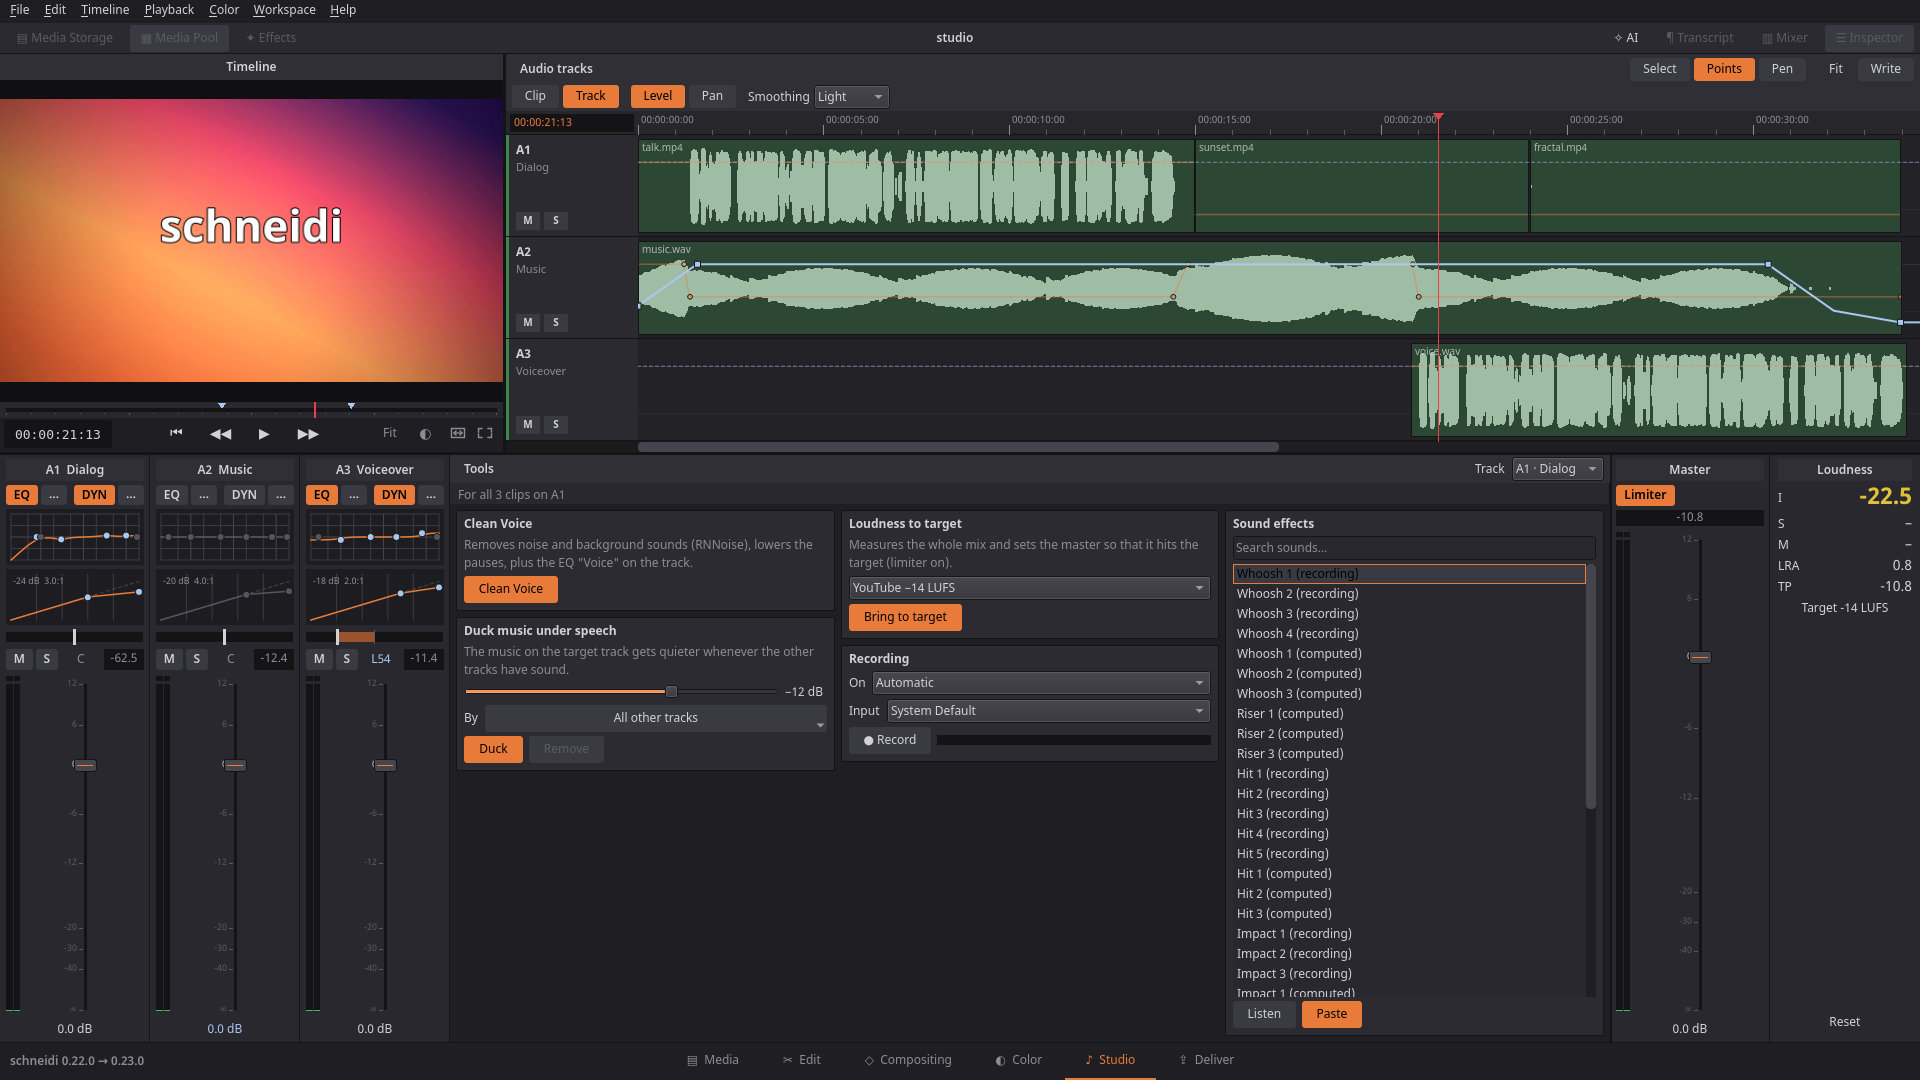
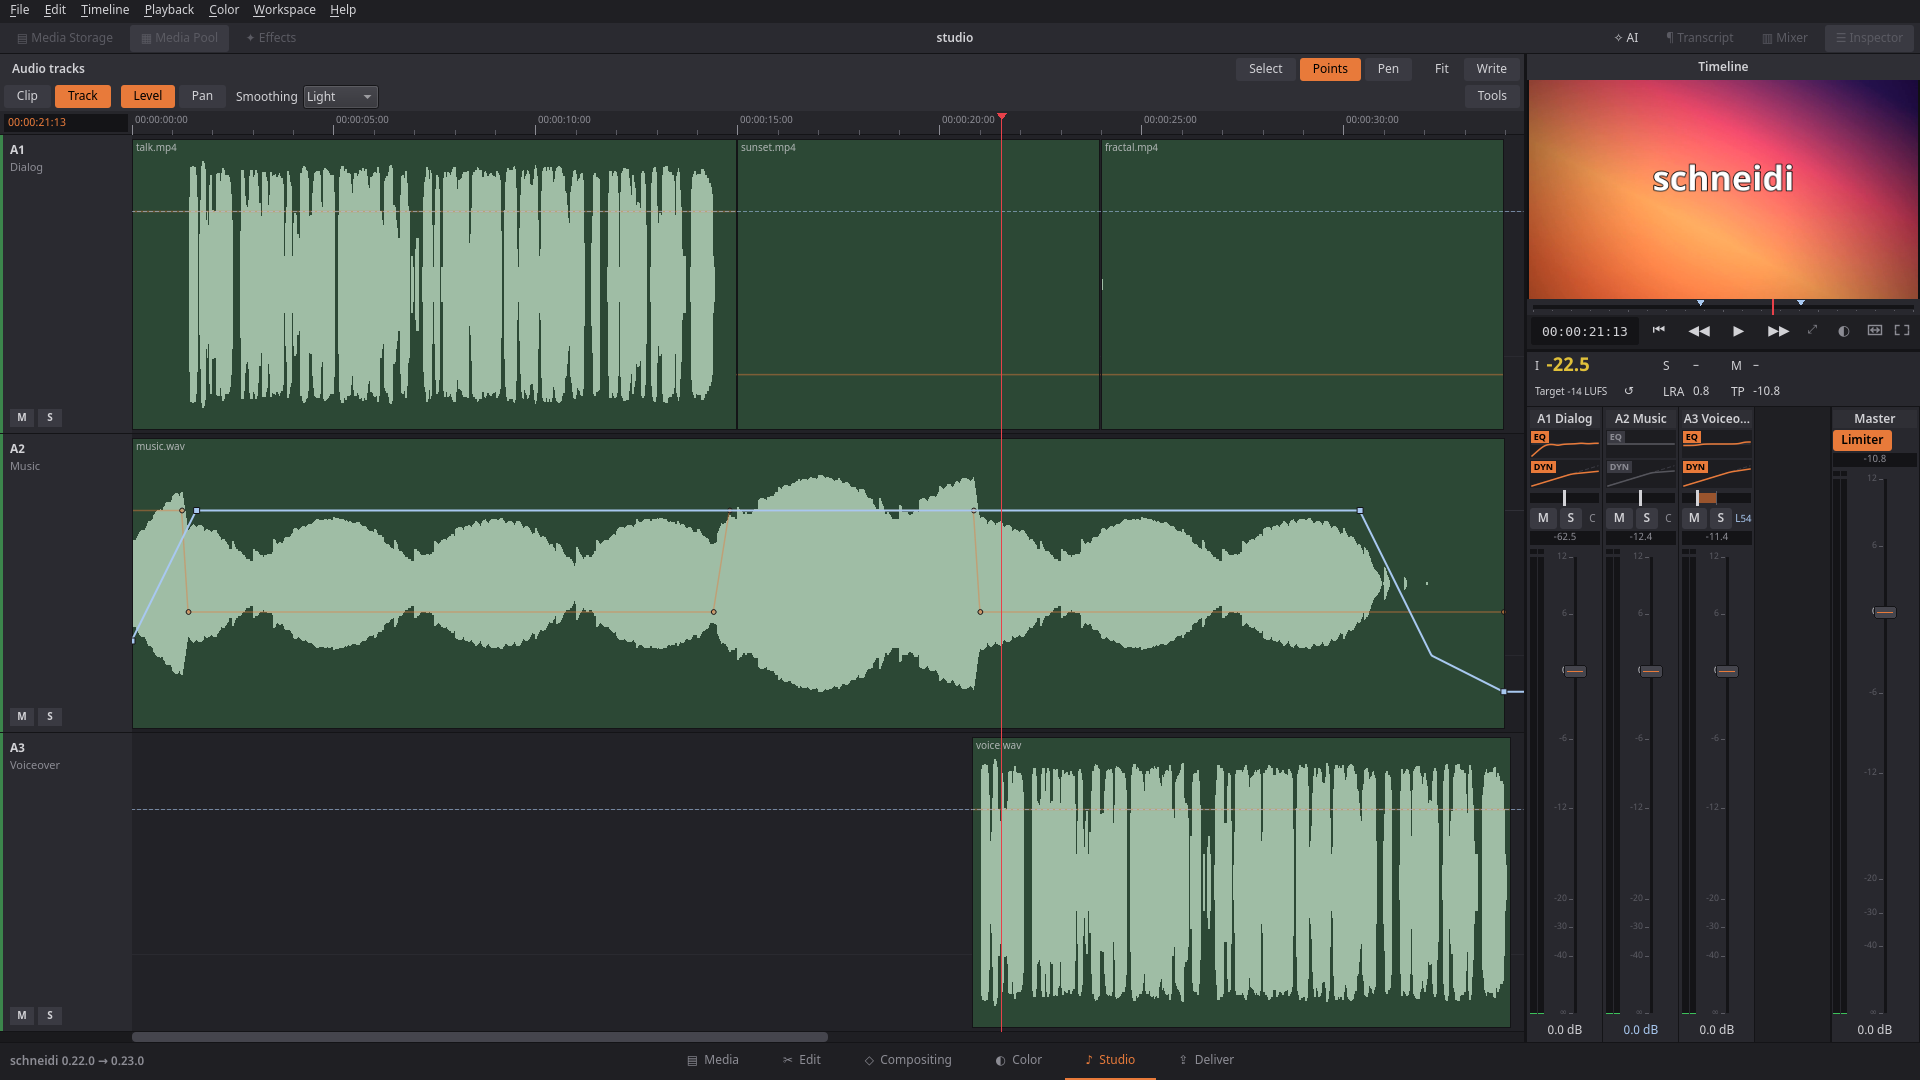
Studio page: README picture of the new layout, tool list left-aligned, compact loudness values
The README image shows the lanes over the whole height, the viewer and
loudness at the top right and the narrow mixer strips (tools closed).
The tool list in the drawer uses push buttons (left-aligned text), the
loudness values sit beside their names, the right column defaults to a
fifth of the page at least.

diff --git a/src/ui/studio/StudioTools.cpp b/src/ui/studio/StudioTools.cpp
@@ -33,6 +33,7 @@
 #include <QMimeData>
 #include <QPainter>
 #include <QProgressDialog>
+#include <QPushButton>
 #include <QScrollArea>
 #include <QSettings>
 #include <QSlider>
@@ -495,18 +496,16 @@ StudioTools::StudioTools(Editor* editor, QWidget* parent) : QWidget(parent), m_e
 void StudioTools::addTool(const QString& tab, const QString& id, QWidget* body, const QString& title)
 {
     const int index = m_stack->count();
-    auto* b = new QToolButton;
-    b->setText(tab);
+    auto* b = new QPushButton(tab); // left-aligned text (a QToolButton centres it whatever the style says)
     b->setObjectName("studio_tab_" + id);
     b->setCheckable(true);
     b->setFocusPolicy(Qt::NoFocus);
-    b->setToolButtonStyle(Qt::ToolButtonTextOnly);
     b->setSizePolicy(QSizePolicy::Expanding, QSizePolicy::Fixed);
     if (!title.isEmpty()) b->setToolTip(title);
-    b->setStyleSheet(QString("QToolButton { background: transparent; color: %1; padding: 3px 12px 3px 10px; border: none;"
+    b->setStyleSheet(QString("QPushButton { background: transparent; color: %1; padding: 3px 12px 3px 10px; border: none;"
                              " text-align: left; border-left: 3px solid transparent; }"
-                             "QToolButton:hover { background: %2; }"
-                             "QToolButton:checked { background: %3; color: %4; border-left: 3px solid %5; }")
+                             "QPushButton:hover { background: %2; }"
+                             "QPushButton:checked { background: %3; color: %4; border-left: 3px solid %5; }")
                          .arg(Theme::textDim.name(), Theme::control.name(), Theme::panel.name(), Theme::text.name(),
                               Theme::primary.name()));
     m_tabs->addButton(b, index);

diff --git a/tests/test_studio_page.cpp b/tests/test_studio_page.cpp
@@ -670,7 +670,7 @@ void testTools(Engine& engine, const QString& voiceFile, const QString& musicFil
     settle();
     if (!CHECK(tools->isVisible())) return;
     // The drawer's ✕ closes it too; the tool chosen in the list stays (one click away when it opens again)
-    if (auto* tab = tools->findChild<QToolButton*>("studio_tab_sounds"); CHECK(tab)) {
+    if (auto* tab = tools->findChild<QAbstractButton*>("studio_tab_sounds"); CHECK(tab)) {
         tab->click();
         settle();
         CHECK_EQ(tools->currentTool(), 4);
@@ -695,7 +695,7 @@ void testTools(Engine& engine, const QString& voiceFile, const QString& musicFil
         if (!CHECK(b)) return;
         for (QWidget* p = b->parentWidget(); p && p != tools; p = p->parentWidget())
             if (p->objectName().startsWith("studio_card_"))
-                if (auto* tab = tools->findChild<QToolButton*>("studio_tab_" + p->objectName().mid(12))) tab->click();
+                if (auto* tab = tools->findChild<QAbstractButton*>("studio_tab_" + p->objectName().mid(12))) tab->click();
         settle();
         CHECK(b->isVisible());
         b->click();

diff --git a/src/ui/studio/StudioPage.cpp b/src/ui/studio/StudioPage.cpp
@@ -247,10 +247,10 @@ void StudioPage::setToolsOpen(bool open)
 
 int StudioPage::defaultSideWidth(int pageWidth) const
 {
-    // A few strips beside the master (more tracks scroll), never less than a usable viewer, at most 42 % of the page
+    // A few strips beside the master (more tracks scroll), a fifth of the page at least (the viewer), at most 42 %
     const int tracks = std::clamp(int(m_editor->project()->timeline().audio.size()), 3, 5);
     const int strips = m_mixer->preferredWidth(tracks) + 2;
-    const int want = std::max(strips, int(pageWidth * 0.24));
+    const int want = std::max(strips, int(pageWidth * 0.2));
     return std::clamp(want, std::min(300, pageWidth / 2), std::max(300, int(pageWidth * 0.42)));
 }
 

diff --git a/src/ui/studio/StudioMixer.cpp b/src/ui/studio/StudioMixer.cpp
@@ -785,7 +785,7 @@ public:
             auto* label = new QLabel(QString::fromLatin1(rows[i].shortName)); // EBU R128 names, as on every meter
             label->setToolTip(T(rows[i].tip));
             auto* v = new QLabel(QStringLiteral("–"));
-            v->setAlignment(Qt::AlignRight | Qt::AlignVCenter);
+            v->setAlignment(Qt::AlignLeft | Qt::AlignVCenter);
             v->setToolTip(T(rows[i].tip));
             if (i == 0) {
                 QFont f = v->font();

diff --git a/README.md b/README.md
@@ -76,8 +76,8 @@ With the AppImage the command is the AppImage itself and the arguments are `["cl
 ![Compositing page: the title MAIN STREET goes behind a green pillar; the pillar's outline, picked with one click, is the selected mask node, with "Pick surface in picture" and its points in the Inspector](screenshots/behind.png)
 **Text behind an object** – click "Pick surface in picture" and then the wall, pillar or car: schneidi outlines it, and the title passes behind it (the mask follows a tracker when the camera moves)
 
-![Studio page: audio tracks with large waveforms – the music ducked under the dialog and a voiceover, a drawn level curve with points on the music track – above a mixer with EQ and compressor curves per track, the tools for cleaning a voice, ducking, loudness to target, recording and sound effects, the master with its limiter and the loudness readout](screenshots/studio.png)
-**Studio** – the mix on its own page: shape a track's level or pan with points or the pen (or ride the fader in write mode while it plays), EQ and compressor as curves you grab, and one-click tools to clean a voice, duck the music under speech or bring the whole mix to a target loudness
+![Studio page: the audio tracks fill the page with large waveforms – the music ducked under the dialog and a voiceover, a drawn level curve with points on the music track; on the right a small viewer, the loudness readout and a mixer column with a narrow strip per track (EQ and compressor curves, pan, mute/solo, fader) and the master with its limiter](screenshots/studio.png)
+**Studio** – the mix on its own page: shape a track's level or pan with points or the pen (or ride the fader in write mode while it plays), a narrow mixer strip per track with its EQ and compressor curves a click away, and one-click tools to clean a voice, duck the music under speech or bring the whole mix to a target loudness
 
 ![File › New from Template: the five built-in templates as tiles with their preview, format, length and number of fields, then the start templates](screenshots/templates.png)
 **Templates** – File › New from Template…: each template with its preview, format, length and fields; drag your clips onto the fields, or fill it from a table with `schneidi-cli template fill`
